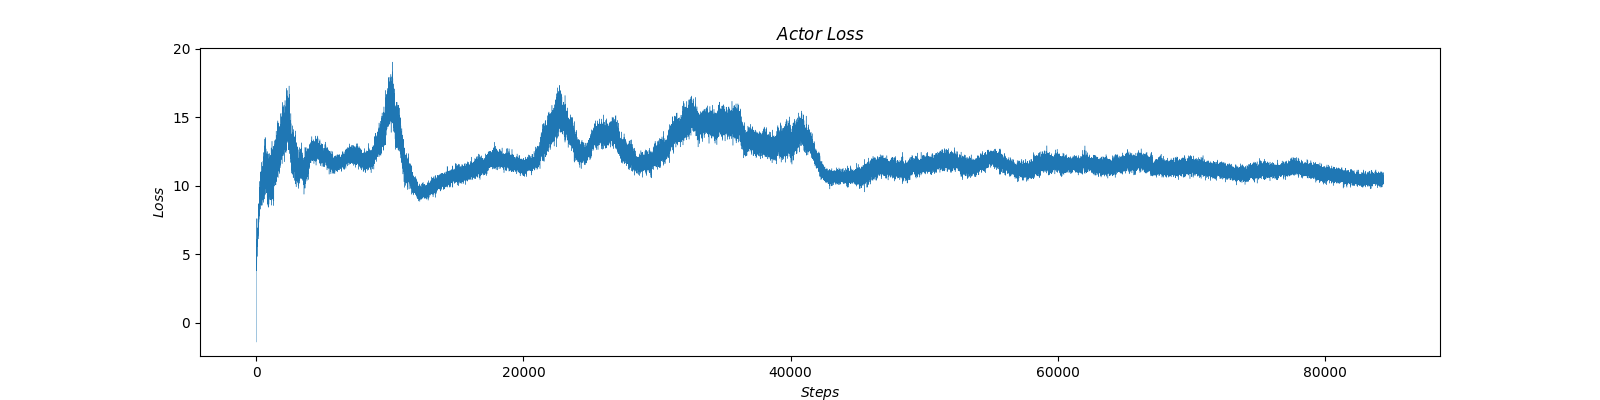
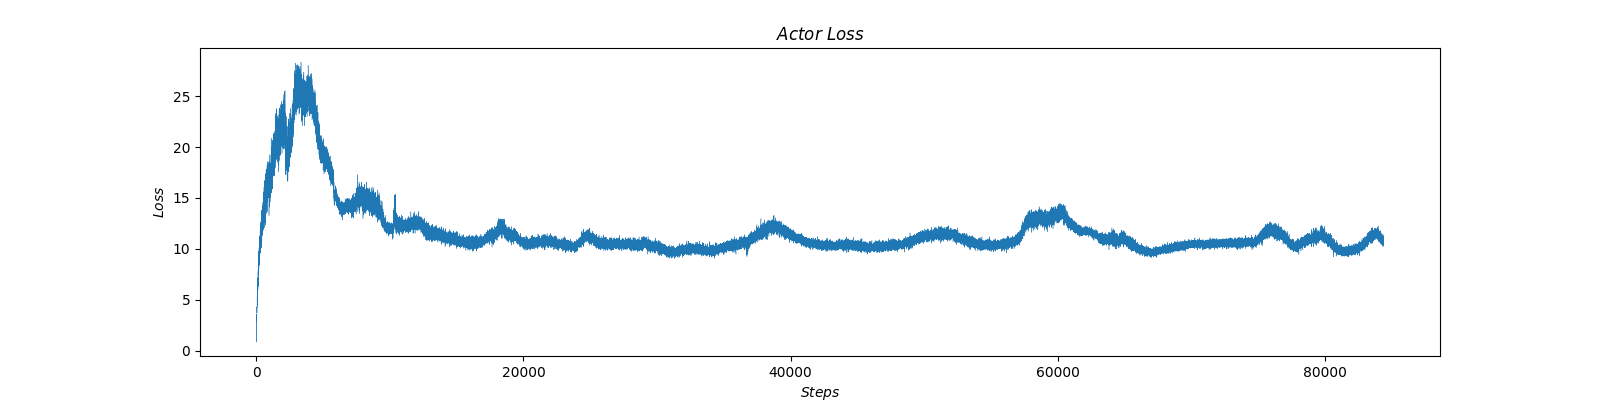
tf-1 saver bug

diff --git a/DDPG/custom_simulator/ddpg_networks.py b/DDPG/custom_simulator/ddpg_networks.py
@@ -6,12 +6,13 @@ import numpy as np
 import matplotlib.pyplot as plt
 from collections import deque
 import random
+import sys
 import warnings
 warnings.filterwarnings("ignore")
 
 
 class DDPG(object):
-    def __init__(self, sess, config, MODE, state_size, action_size, action_lower_bound, action_upper_bound):
+    def __init__(self,config, MODE, state_size, action_size, action_lower_bound, action_upper_bound):
         self.actor_loss_lst        = []
         self.critic_loss_lst       = []
         self.actor_loss_threshold  = None
@@ -21,7 +22,6 @@ class DDPG(object):
         self.config             = config
         self.MODE               = MODE
         self.iteration          = 0
-        self.sess               = sess
         self.memory             = deque(maxlen = self.config['MEMORY_CAPACITY'])
         self.state_size         = state_size
         self.action_size        = action_size
@@ -69,39 +69,35 @@ class DDPG(object):
         # global variable initialization
         init_op = tf.compat.v1.global_variables_initializer()
 
-        if self.MODE == 'train':
-            # initialize/restore all variables
-            self.actor_saver = tf.compat.v1.train.Saver(var_list=self.actor_params)
-            self.critic_saver = tf.compat.v1.train.Saver(var_list=self.critic_params)
-            self.sess.run(init_op)
+        # savers
+        self.actor_saver = tf.compat.v1.train.Saver(var_list=self.actor_params)
+        self.critic_saver = tf.compat.v1.train.Saver(var_list=self.critic_params)
+        
+        # start the session and initialize the variables
+        self.sess = tf.compat.v1.Session()
+        self.sess.run(init_op)
 
-        elif self.MODE == 'test':
-            self.sess.run(init_op)
+        if self.MODE == 'test':
+            # restore all variables
             self.load()
 
-            # update the target networks
+            # soft-update for the target networks
             self.soft_update()
 
     def build_actor(self, states, scope, trainable=True):
         with tf.compat.v1.variable_scope(scope):
             # fully connected layers
-            fc_1 = tf.compat.v1.layers.dense(states, 32, activation=tf.nn.relu, kernel_initializer=tf.compat.v1.truncated_normal_initializer(), \
-                                             kernel_regularizer=tf.keras.regularizers.l2(l=0.01), name='fc_1', trainable=trainable)
-            fc_2 = tf.compat.v1.layers.dense(fc_1, 16, activation=tf.nn.relu, kernel_initializer=tf.compat.v1.truncated_normal_initializer(), \
-                                             kernel_regularizer=tf.keras.regularizers.l2(l=0.01), name='fc_2', trainable=trainable)
+            fc_1 = tf.compat.v1.layers.dense(states, 32, activation=tf.nn.relu, kernel_regularizer=tf.keras.regularizers.l2(l=0.01), name='fc_1', trainable=trainable)
+            fc_2 = tf.compat.v1.layers.dense(fc_1, 16, activation=tf.nn.relu, kernel_regularizer=tf.keras.regularizers.l2(l=0.01), name='fc_2', trainable=trainable)
 
             # tanh activation puts the output in the range of [-1, 1]
             # e_prod_action is in the range of [-1, 1]
-            fc_3_1        = tf.compat.v1.layers.dense(fc_2, 8, activation=tf.nn.relu, kernel_initializer=tf.compat.v1.truncated_normal_initializer(), \
-                                                      kernel_regularizer=tf.keras.regularizers.l2(l=0.01), name='fc_3_1', trainable=trainable)
-            e_prod_action = tf.compat.v1.layers.dense(fc_3_1, 1, activation=tf.nn.tanh, kernel_initializer=tf.compat.v1.truncated_normal_initializer(), \
-                                                      kernel_regularizer=tf.keras.regularizers.l2(l=0.01), name='e_prod_action', trainable=trainable)
+            fc_3_1        = tf.compat.v1.layers.dense(fc_2, 8, activation=tf.nn.relu, kernel_regularizer=tf.keras.regularizers.l2(l=0.01), name='fc_3_1', trainable=trainable)
+            e_prod_action = tf.compat.v1.layers.dense(fc_3_1, 1, activation=tf.nn.tanh, kernel_regularizer=tf.keras.regularizers.l2(l=0.01), name='e_prod_action', trainable=trainable)
 
             # damper_action cannot be negative, hence relu activation
-            fc_3_2        = tf.compat.v1.layers.dense(fc_2, 8, activation=tf.nn.relu, kernel_initializer=tf.compat.v1.truncated_normal_initializer(), \
-                                                      kernel_regularizer=tf.keras.regularizers.l2(l=0.01), name='fc_3_2', trainable=trainable)
-            damper_action = tf.clip_by_value(tf.compat.v1.layers.dense(fc_3_2, 1, activation=tf.nn.relu, kernel_initializer=tf.compat.v1.truncated_normal_initializer(), \
-                                                                       kernel_regularizer=tf.keras.regularizers.l2(l=0.01), trainable=trainable), self.action_lower_bound[1], self.action_upper_bound[1], name='damper_action')
+            fc_3_2        = tf.compat.v1.layers.dense(fc_2, 8, activation=tf.nn.relu, kernel_regularizer=tf.keras.regularizers.l2(l=0.01), name='fc_3_2', trainable=trainable)
+            damper_action = tf.clip_by_value(tf.compat.v1.layers.dense(fc_3_2, 1, activation=tf.nn.relu, kernel_regularizer=tf.keras.regularizers.l2(l=0.01), trainable=trainable), self.action_lower_bound[1], self.action_upper_bound[1], name='damper_action')
 
             # concatenate to output
             out = tf.concat([e_prod_action, damper_action], axis=1, name='out')
@@ -137,17 +133,13 @@ class DDPG(object):
     def build_critic(self, states, actions, scope, trainable=True):
         with tf.compat.v1.variable_scope(scope):
             # fully connected layers
-            fc_1_1 = tf.compat.v1.layers.dense(states, 32, activation=tf.nn.relu, kernel_initializer=tf.compat.v1.truncated_normal_initializer(), \
-                                               kernel_regularizer=tf.keras.regularizers.l2(l=0.01), name='fc_1_1', trainable=trainable)
-            fc_1_2 = tf.compat.v1.layers.dense(actions, 32, activation=tf.nn.relu, kernel_initializer=tf.compat.v1.truncated_normal_initializer(), \
-                                               kernel_regularizer=tf.keras.regularizers.l2(l=0.01), name='fc_1_2', trainable=trainable)
+            fc_1_1 = tf.compat.v1.layers.dense(states, 32, activation=tf.nn.relu, kernel_regularizer=tf.keras.regularizers.l2(l=0.01), name='fc_1_1', trainable=trainable)
+            fc_1_2 = tf.compat.v1.layers.dense(actions, 32, activation=tf.nn.relu, kernel_regularizer=tf.keras.regularizers.l2(l=0.01), name='fc_1_2', trainable=trainable)
             fc_1   = tf.concat([fc_1_1, fc_1_2], axis=1, name='fc_1')
 
-            fc_2 = tf.compat.v1.layers.dense(fc_1, 16, activation=tf.nn.relu, kernel_initializer=tf.compat.v1.truncated_normal_initializer(), \
-                                             kernel_regularizer=tf.keras.regularizers.l2(l=0.01), name='fc_2', trainable=trainable)
+            fc_2 = tf.compat.v1.layers.dense(fc_1, 16, activation=tf.nn.relu, kernel_regularizer=tf.keras.regularizers.l2(l=0.01), name='fc_2', trainable=trainable)
 
-            out = tf.compat.v1.layers.dense(fc_2, 1, kernel_initializer=tf.compat.v1.truncated_normal_initializer(), \
-                                            kernel_regularizer=tf.keras.regularizers.l2(l=0.01), name='out', trainable=trainable)
+            out = tf.compat.v1.layers.dense(fc_2, 1, kernel_regularizer=tf.keras.regularizers.l2(l=0.01), name='out', trainable=trainable)
             
             return out
 
@@ -238,12 +230,12 @@ class DDPG(object):
         # soft update
         self.soft_update()
 
-        if len(self.actor_loss_lst) == 30000:
+        if len(self.actor_loss_lst) == 10000:
             print('\t\t\t\t\t\t\t\t----------- DDPG MIN THRESHOLD SET -----------\t\t\t\t\t\t\t\t')
             self.actor_loss_threshold  = current_actor_loss
             self.critic_loss_threshold = current_critic_loss
             
-        elif len(self.actor_loss_lst) > 30000:
+        elif len(self.actor_loss_lst) > 10000:
             if current_actor_loss <= self.actor_loss_threshold:
                 self.save_actor()
                 self.actor_loss_threshold = current_actor_loss
@@ -284,8 +276,26 @@ class DDPG(object):
         self.critic_saver.save(self.sess, './GRAPHS/critic')
 
     def load(self):
+        if self.config['LOAD_CHECK']:
+            stdoutOrigin=sys.stdout
+            sys.stdout = open("./actor_init.txt", "w")
+            print('==============INITIALIZED==============')
+            for acttor_param in self.actor_params:
+                print(str(acttor_param) +'\n'+ str(acttor_param.eval(session=self.sess)), '\n\n')
+            sys.stdout.close()
+            sys.stdout=stdoutOrigin
+
         self.actor_saver = tf.compat.v1.train.import_meta_graph('./GRAPHS/actor.meta')
         self.critic_saver = tf.compat.v1.train.import_meta_graph('./GRAPHS/critic.meta')
 
         self.actor_saver.restore(self.sess, './GRAPHS/actor')
         self.critic_saver.restore(self.sess, './GRAPHS/critic')
+
+        if self.config['LOAD_CHECK']:
+            stdoutOrigin=sys.stdout 
+            sys.stdout = open("./actor_load.txt", "w")
+            print('==============LOADED==============')
+            for acttor_param in self.actor_params:
+                print(str(acttor_param) +'\n'+ str(acttor_param.eval(session=self.sess)), '\n\n')
+            sys.stdout.close()
+            sys.stdout=stdoutOrigin

diff --git a/DDPG/custom_simulator/ddpg_main.py b/DDPG/custom_simulator/ddpg_main.py
@@ -50,13 +50,13 @@ def conv_to_calamp(data):
 def daily_heatmap(vis_data, col_name, MODE, filename):
     if col_name == 'Return':
         vmin = vis_data[col_name].min()
-        vmax = 0
+        vmax = vis_data[col_name].max()
         cmap = "Blues"
 
     elif col_name == 'e_prod_saved_percent':
         vmin = -100
         vmax = 100
-        cmap = sns.color_palette("coolwarm_r", as_cmap=True)
+        cmap = "coolwarm_r"
     
     daily_data_2020 = vis_data[vis_data['Year'] == 2020]
     daily_data_2019 = vis_data[vis_data['Year'] == 2019]
@@ -167,8 +167,7 @@ def run_rl(MODE, config):
         config['EPISODES'] = 1040
 
     # ddpg is specifically adapted for environments with continuous action spaces
-    sess = tf.compat.v1.Session()
-    ddpg = DDPG(sess, config, MODE, state_size, action_size, action_lower_bound, action_upper_bound)
+    ddpg = DDPG(config, MODE, state_size, action_size, action_lower_bound, action_upper_bound)
 
     step = 0
     date_lst, return_lst = [], []
@@ -253,7 +252,7 @@ if __name__ == "__main__":
     with open(os.getcwd()+'/config.json') as f:
         config = json.load(f)
 
-    run_rl('train', config)
+    #run_rl('train', config)
     run_rl('test', config)
 
     print('\n=================================================================================================================')
